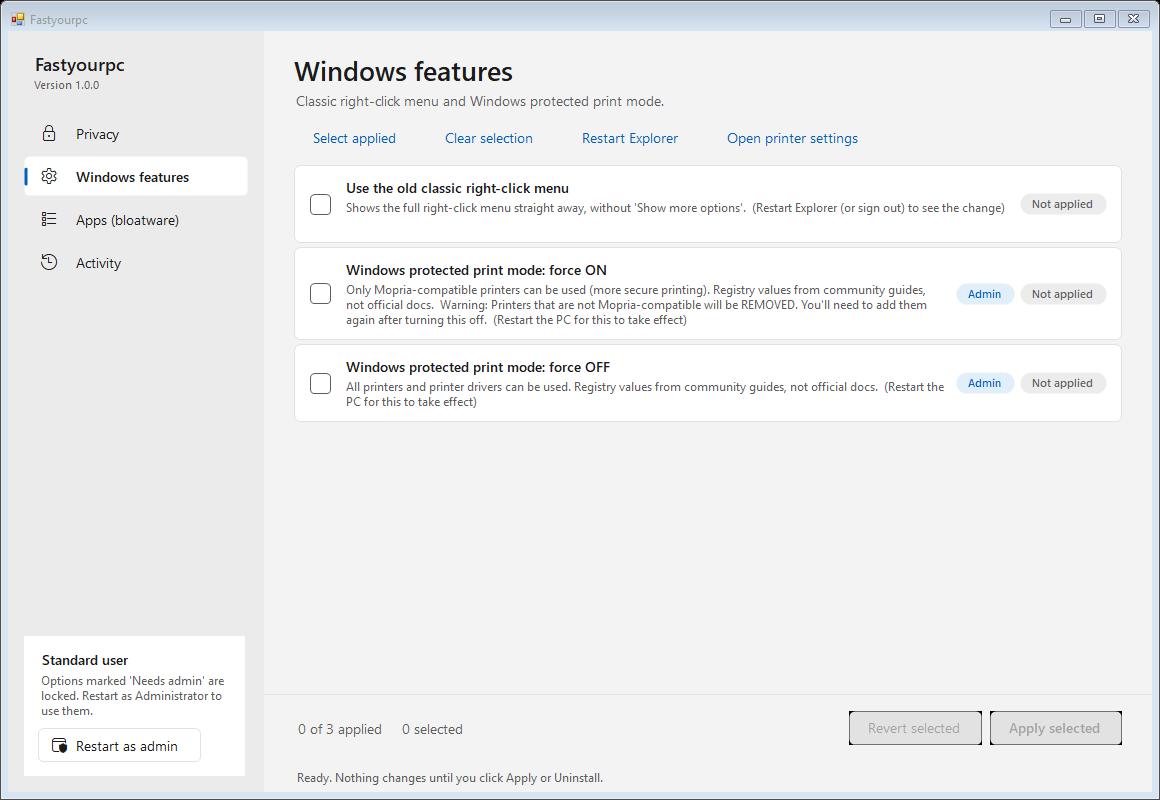
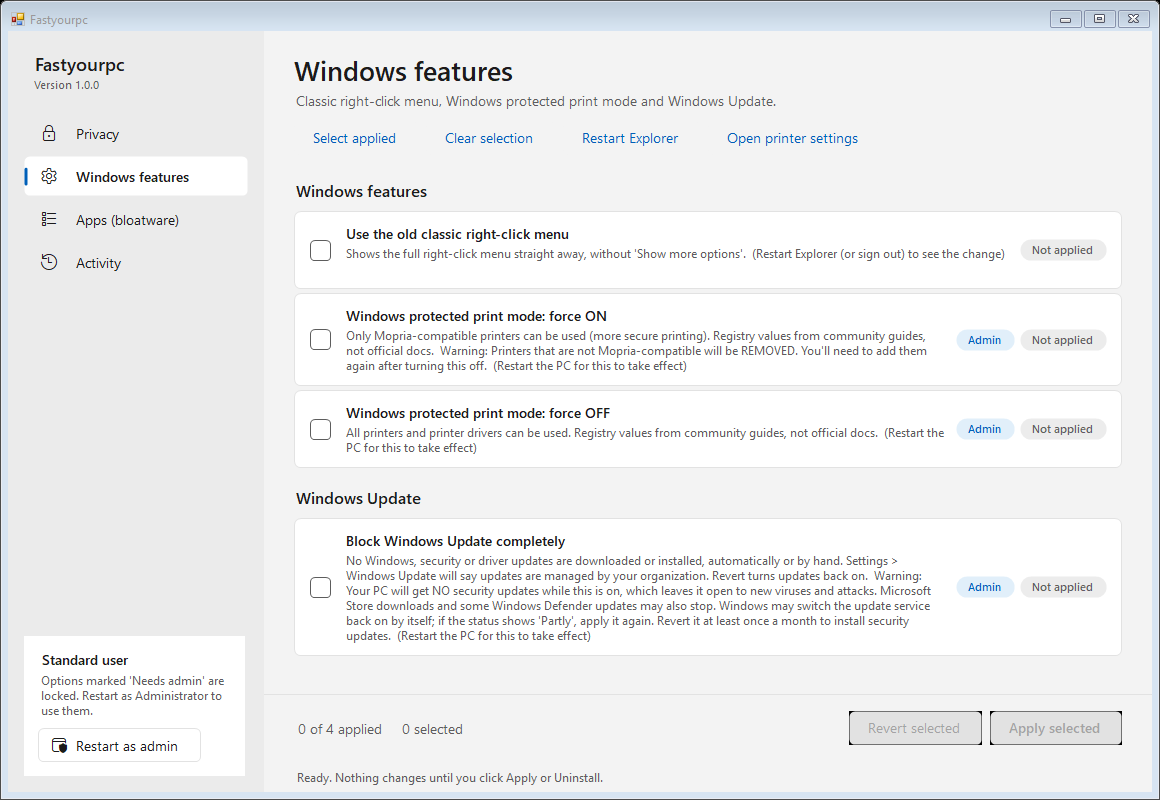
Add 'Block Windows Update completely' option; smooth scrolling
- New opt-in, admin-only option on the Windows features page: Windows Update
  policies (no auto updates, dead update server, no fallback, no UI access,
  no drivers) plus wuauserv and UsoSvc disabled. Warns before ticking;
  Revert restores every original value. Tests cover apply and revert.
- Lists now scroll with ScrollWindowEx and ease between positions, instead
  of moving and repainting every row on each wheel step.

diff --git a/src/Fastyourpc/Widgets.cs b/src/Fastyourpc/Widgets.cs
@@ -353,9 +353,14 @@ namespace Fastyourpc
     /// </summary>
     public sealed class ListPanel : Panel
     {
-        int offset, contentHeight;
+        [DllImport("user32.dll")]
+        static extern int ScrollWindowEx(IntPtr hWnd, int dx, int dy, IntPtr scroll, IntPtr clip, IntPtr rgnUpdate, IntPtr rcUpdate, uint flags);
+        const uint SW_SCROLLCHILDREN = 0x1, SW_INVALIDATE = 0x2;
+
+        int offset, target, contentHeight;
         bool barHover, dragging;
         int dragStartY, dragStartOffset;
+        readonly Timer glide = new Timer { Interval = 10 };
 
         public ListPanel()
         {
@@ -366,20 +371,54 @@ namespace Fastyourpc
             Dock = DockStyle.Fill;
             Padding = new Padding(S(30), 0, S(30), S(20));
             Margin = Padding.Empty;
+            glide.Tick += (s, e) => GlideStep();
+        }
+
+        protected override void Dispose(bool disposing)
+        {
+            if (disposing) glide.Dispose();
+            base.Dispose(disposing);
         }
 
         int MaxOffset => Math.Max(0, contentHeight - ClientSize.Height);
         bool CanScroll => MaxOffset > 0;
+        int Clamp(int y) => Math.Max(0, Math.Min(MaxOffset, y));
 
-        public void ScrollBy(int wheelDelta) => ScrollTo(offset - wheelDelta * S(60) / 120);
+        // Wheel notches add up from where the scroll is heading, so fast wheeling keeps going.
+        public void ScrollBy(int wheelDelta) => ScrollTo(target - wheelDelta * S(100) / 120);
 
-        public void ScrollTo(int y)
+        /// <summary>Scrolls to y. Animated by default; dragging the bar jumps straight there.</summary>
+        public void ScrollTo(int y, bool animate = true)
         {
-            y = Math.Max(0, Math.Min(MaxOffset, y));
-            if (y == offset) return;
+            target = Clamp(y);
+            if (!animate || !IsHandleCreated) { glide.Stop(); MoveTo(target); }
+            else if (target != offset) glide.Start();
+        }
+
+        // Eases towards the target: each tick covers a third of the remaining distance.
+        void GlideStep()
+        {
+            int left = target - offset;
+            if (left == 0) { glide.Stop(); return; }
+            int step = left / 3;
+            if (step == 0) step = Math.Sign(left);
+            MoveTo(offset + step);
+        }
+
+        // Shifts what's already on screen (children included) instead of moving and repainting every row.
+        void MoveTo(int y)
+        {
+            y = Clamp(y);
+            int dy = offset - y;
+            if (dy == 0) return;
             offset = y;
-            PerformLayout();
-            Invalidate();
+            if (IsHandleCreated)
+            {
+                ScrollWindowEx(Handle, 0, dy, IntPtr.Zero, IntPtr.Zero, IntPtr.Zero, IntPtr.Zero, SW_SCROLLCHILDREN | SW_INVALIDATE);
+                Invalidate(new Rectangle(Track.Left - S(4), 0, ClientSize.Width - Track.Left + S(4), ClientSize.Height));
+                Update();
+            }
+            else PerformLayout();
         }
 
         /// <summary>Scrolls just enough to show the control (used when Tab moves focus to a hidden row).</summary>
@@ -401,8 +440,8 @@ namespace Fastyourpc
             int page = Math.Max(S(60), ClientSize.Height - S(60));
             switch (e.KeyCode)
             {
-                case Keys.PageDown: ScrollTo(offset + page); break;
-                case Keys.PageUp: ScrollTo(offset - page); break;
+                case Keys.PageDown: ScrollTo(target + page); break;
+                case Keys.PageUp: ScrollTo(target - page); break;
                 case Keys.Home when e.Control: ScrollTo(0); break;
                 case Keys.End when e.Control: ScrollTo(MaxOffset); break;
                 default: return;
@@ -424,7 +463,8 @@ namespace Fastyourpc
                 y += c.Height + c.Margin.Bottom;
             }
             contentHeight = y + Padding.Bottom;
-            offset = Math.Max(0, Math.Min(MaxOffset, offset));
+            offset = Clamp(offset);
+            target = Clamp(target);
 
             y = Padding.Top - offset;
             foreach (Control c in Controls)
@@ -477,7 +517,7 @@ namespace Fastyourpc
             {
                 var t = Track;
                 int room = Math.Max(1, t.Height - Thumb.Height);
-                ScrollTo(dragStartOffset + (int)((long)(e.Y - dragStartY) * MaxOffset / room));
+                ScrollTo(dragStartOffset + (int)((long)(e.Y - dragStartY) * MaxOffset / room), animate: false);
                 return;
             }
             bool over = CanScroll && e.X >= Track.Left - S(6);
@@ -495,9 +535,9 @@ namespace Fastyourpc
             base.OnMouseDown(e);
             if (e.Button != MouseButtons.Left || !CanScroll || e.X < Track.Left - S(6)) return;
             var thumb = Thumb;
-            if (e.Y < thumb.Top) ScrollTo(offset - ClientSize.Height);            // click above: page up
-            else if (e.Y > thumb.Bottom) ScrollTo(offset + ClientSize.Height);    // click below: page down
-            else { dragging = true; dragStartY = e.Y; dragStartOffset = offset; Capture = true; }
+            if (e.Y < thumb.Top) ScrollTo(target - ClientSize.Height);            // click above: page up
+            else if (e.Y > thumb.Bottom) ScrollTo(target + ClientSize.Height);    // click below: page down
+            else { glide.Stop(); target = offset; dragging = true; dragStartY = e.Y; dragStartOffset = offset; Capture = true; }
             Invalidate();
         }
 

diff --git a/src/Fastyourpc/Catalog.cs b/src/Fastyourpc/Catalog.cs
@@ -16,8 +16,9 @@ namespace Fastyourpc
         public const string Diag = "Diagnostic data & telemetry";
         public const string Activity = "Activity, location & AI";
         public const string Features = "Windows features";
+        public const string Updates = "Windows Update";
 
-        public static readonly string[] Groups = { Tips, Search, Typing, Office, Diag, Activity, Features };
+        public static readonly string[] Groups = { Tips, Search, Typing, Office, Diag, Activity, Features, Updates };
 
         const string RestartExplorer = "Restart Explorer (or sign out) to see the change";
         const string RestartPc = "Restart the PC for this to take effect";
@@ -29,6 +30,8 @@ namespace Fastyourpc
         const string DC = @"SOFTWARE\Policies\Microsoft\Windows\DataCollection";
         const string OFFPOL = @"Software\Policies\Microsoft\Office";
         const string WPP = @"SOFTWARE\Policies\Microsoft\Windows NT\Printers\WPP";
+        const string WU = @"SOFTWARE\Policies\Microsoft\Windows\WindowsUpdate";
+        const string NoServer = "http://127.0.0.1";   // update server that doesn't exist, so every check fails
 
         static RegOp CU(string key, string name, object value, object def = null) => new RegOp(Hive.CU, key, name, value, def);
         static RegOp LM(string key, string name, object value, object def = null) => new RegOp(Hive.LM, key, name, value, def);
@@ -181,6 +184,26 @@ namespace Fastyourpc
                 LM(WPP, "WindowsProtectedPrintMode", 0), LM(WPP, "EnabledBy", null),
                 LM(WPP, "WindowsProtectedPrintGroupPolicyState", null), LM(WPP, "WindowsProtectedPrintOobeConfigComplete", null))
                 .ConflictsWith("wpp_on").Needs(RestartPc).Optional(),
+
+            // ---------------- Windows Update ----------------
+            T(Updates, "block_updates", "Block Windows Update completely",
+                "No Windows, security or driver updates are downloaded or installed, automatically or by hand. " +
+                "Settings > Windows Update will say updates are managed by your organization. Revert turns updates back on.",
+                LM(WU + @"\AU", "NoAutoUpdate", 1),
+                LM(WU + @"\AU", "UseWUServer", 1),
+                LM(WU, "WUServer", NoServer),
+                LM(WU, "WUStatusServer", NoServer),
+                LM(WU, "DoNotConnectToWindowsUpdateInternetLocations", 1),
+                LM(WU, "DisableWindowsUpdateAccess", 1),
+                LM(WU, "SetDisableUXWUAccess", 1),
+                LM(WU, "ExcludeWUDriversInQualityUpdate", 1),
+                LM(@"SYSTEM\CurrentControlSet\Services\wuauserv", "Start", 4, 3),
+                LM(@"SYSTEM\CurrentControlSet\Services\UsoSvc", "Start", 4, 2))
+                .Warn("Your PC will get NO security updates while this is on, which leaves it open to new viruses and attacks. " +
+                      "Microsoft Store downloads and some Windows Defender updates may also stop. " +
+                      "Windows may switch the update service back on by itself; if the status shows 'Partly', apply it again. " +
+                      "Revert it at least once a month to install security updates.")
+                .Needs(RestartPc).Optional(),
         };
 
         public static Tweak Find(string id) => All.FirstOrDefault(t => t.Id == id);

diff --git a/src/Fastyourpc/MainForm.cs b/src/Fastyourpc/MainForm.cs
@@ -50,10 +50,10 @@ namespace Fastyourpc
 
             privacyPage = new TweakPage(engine, Log, "Privacy",
                 "Turn off what Windows, Office and Edge send to Microsoft. Revert puts back exactly what was there before.",
-                Catalog.Groups.Where(g => g != Catalog.Features));
+                Catalog.Groups.Where(g => g != Catalog.Features && g != Catalog.Updates));
             featuresPage = new TweakPage(engine, Log, "Windows features",
-                "Classic right-click menu and Windows protected print mode.",
-                new[] { Catalog.Features },
+                "Classic right-click menu, Windows protected print mode and Windows Update.",
+                new[] { Catalog.Features, Catalog.Updates },
                 new FlatButton("Restart Explorer", ButtonKind.Subtle, (s, e) => RestartExplorer()),
                 new FlatButton("Open printer settings", ButtonKind.Subtle,
                     (s, e) => Process.Start(new ProcessStartInfo("ms-settings:printers") { UseShellExecute = true })));

diff --git a/TECHNICAL.md b/TECHNICAL.md
@@ -30,6 +30,21 @@ Ids must be unique and never reused, because backups are stored by id. Then run 
 - **Status:** *Applied* = every value matches, *Partly* = some do, *Not applied* = none do.
 - HKLM is opened in the 64-bit view, so nothing is redirected to `WOW6432Node`.
 
+## Block Windows Update (`block_updates`)
+Opt-in (never part of *recommended*), needs admin, shows a warning before it can be ticked. A restart is needed. It writes:
+
+| Key | Value | Effect |
+|---|---|---|
+| `HKLM\SOFTWARE\Policies\Microsoft\Windows\WindowsUpdate\AU` | `NoAutoUpdate`=1, `UseWUServer`=1 | No automatic updates; use the update server below |
+| `HKLM\SOFTWARE\Policies\Microsoft\Windows\WindowsUpdate` | `WUServer` / `WUStatusServer` = `http://127.0.0.1` | Points Windows Update at a server that doesn't exist, so manual checks fail too |
+| same | `DoNotConnectToWindowsUpdateInternetLocations`=1 | Stops falling back to Microsoft's servers |
+| same | `DisableWindowsUpdateAccess`=1, `SetDisableUXWUAccess`=1 | Removes access to Windows Update features and the "Check for updates" button |
+| same | `ExcludeWUDriversInQualityUpdate`=1 | No driver updates |
+| `HKLM\SYSTEM\CurrentControlSet\Services\wuauserv` | `Start`=4 (default 3) | Windows Update service disabled |
+| `HKLM\SYSTEM\CurrentControlSet\Services\UsoSvc` | `Start`=4 (default 2) | Update Orchestrator service disabled |
+
+Revert restores every value from the backup, or deletes it if it didn't exist before. The *Windows Update Medic Service* (`WaaSMedicSvc`) is left alone, because its key is protected even from Administrators. It may set `wuauserv` back to manual, and then the status shows *Partly*. The policies still block updates; apply again to disable the service again.
+
 ## Apps tab
 - **Scan:** `PackageManager.FindPackagesForUser("")` (current user). Each known app is matched by package name (`*` wildcard) and shown as Installed or Not installed. *Other installed apps* = Store- or developer-signed packages that aren't frameworks, resources or bundles, and aren't in the list.
 - **Uninstall:** `PackageManager.RemovePackageAsync(fullName)` for the current user. Removed apps are logged to `%LOCALAPPDATA%\Fastyourpc\removed-apps.tsv`, so *Get from Store* can open the exact Store page.

diff --git a/README.md b/README.md
@@ -5,6 +5,7 @@ Windows 10/11 tools, available as one portable **`Fastyourpc.exe`** or as PowerS
 - **Privacy & settings**: turn off Windows, Office and Edge data sharing, telemetry and diagnostic data, tips and ads. Undo puts back exactly what was there before.
 - **Apps (bloatware)**: scans which preinstalled apps are installed and which aren't, rates each one (safe / think first / critical), says what stops working if you remove it, and uninstalls the ones you pick.
 - **Classic right-click menu** and **Windows protected print mode** on/off.
+- **Block Windows Update** completely, and turn it back on with one click.
 
 Nothing touches your Microsoft account or sign-in.
 
@@ -22,7 +23,7 @@ The sidebar has four pages:
 
 **Privacy.** Every option is a card with a one-line explanation and a status label (*Applied*, *Partly*, *Not applied*). Tick what you want, then click **Apply selected**. To undo, tick it and click **Revert selected**. **Select recommended** ticks the safe set. Options marked *Needs admin* are grey until you click **Restart as admin** in the sidebar.
 
-**Windows features.** Classic right-click menu, and Windows protected print mode on/off, with **Restart Explorer** and **Open printer settings** buttons.
+**Windows features.** Classic right-click menu, Windows protected print mode on/off, and **Block Windows Update completely** (with **Restart Explorer** and **Open printer settings** buttons). Blocking updates stops all Windows, security and driver updates, including manual checks. It needs admin and a restart, and shows a warning first. Tick it and click **Revert selected** to turn updates back on. See [TECHNICAL.md](TECHNICAL.md#block-windows-update-block_updates).
 
 ![Windows features page](docs/features-light.png)
 
